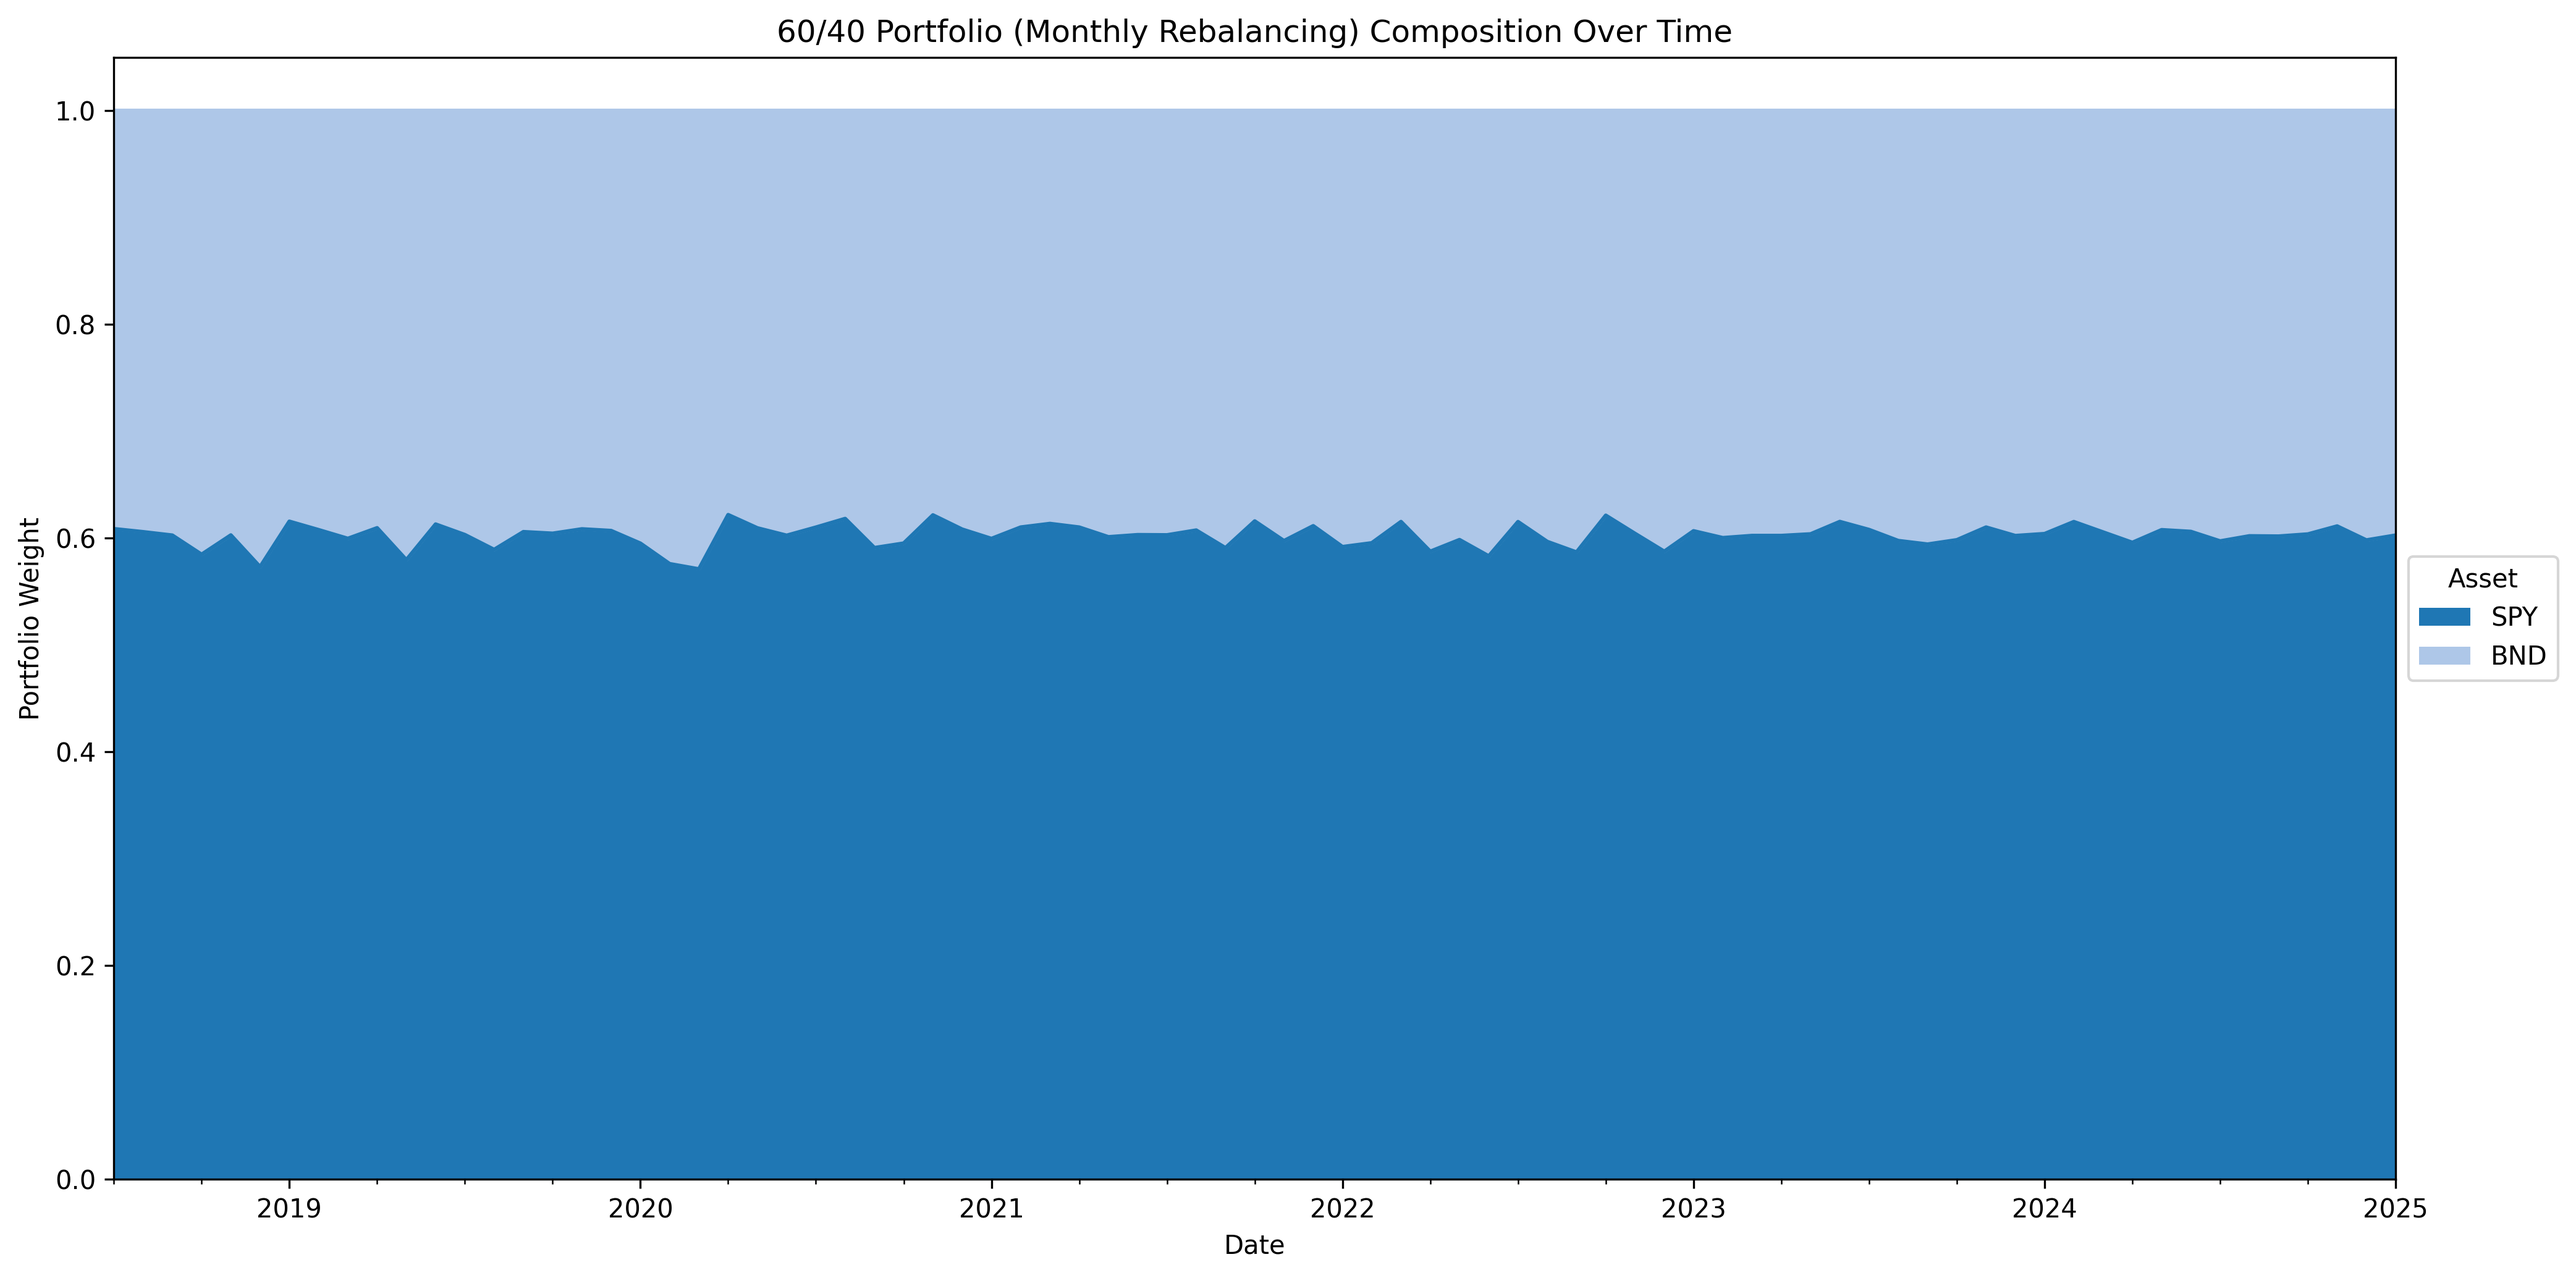
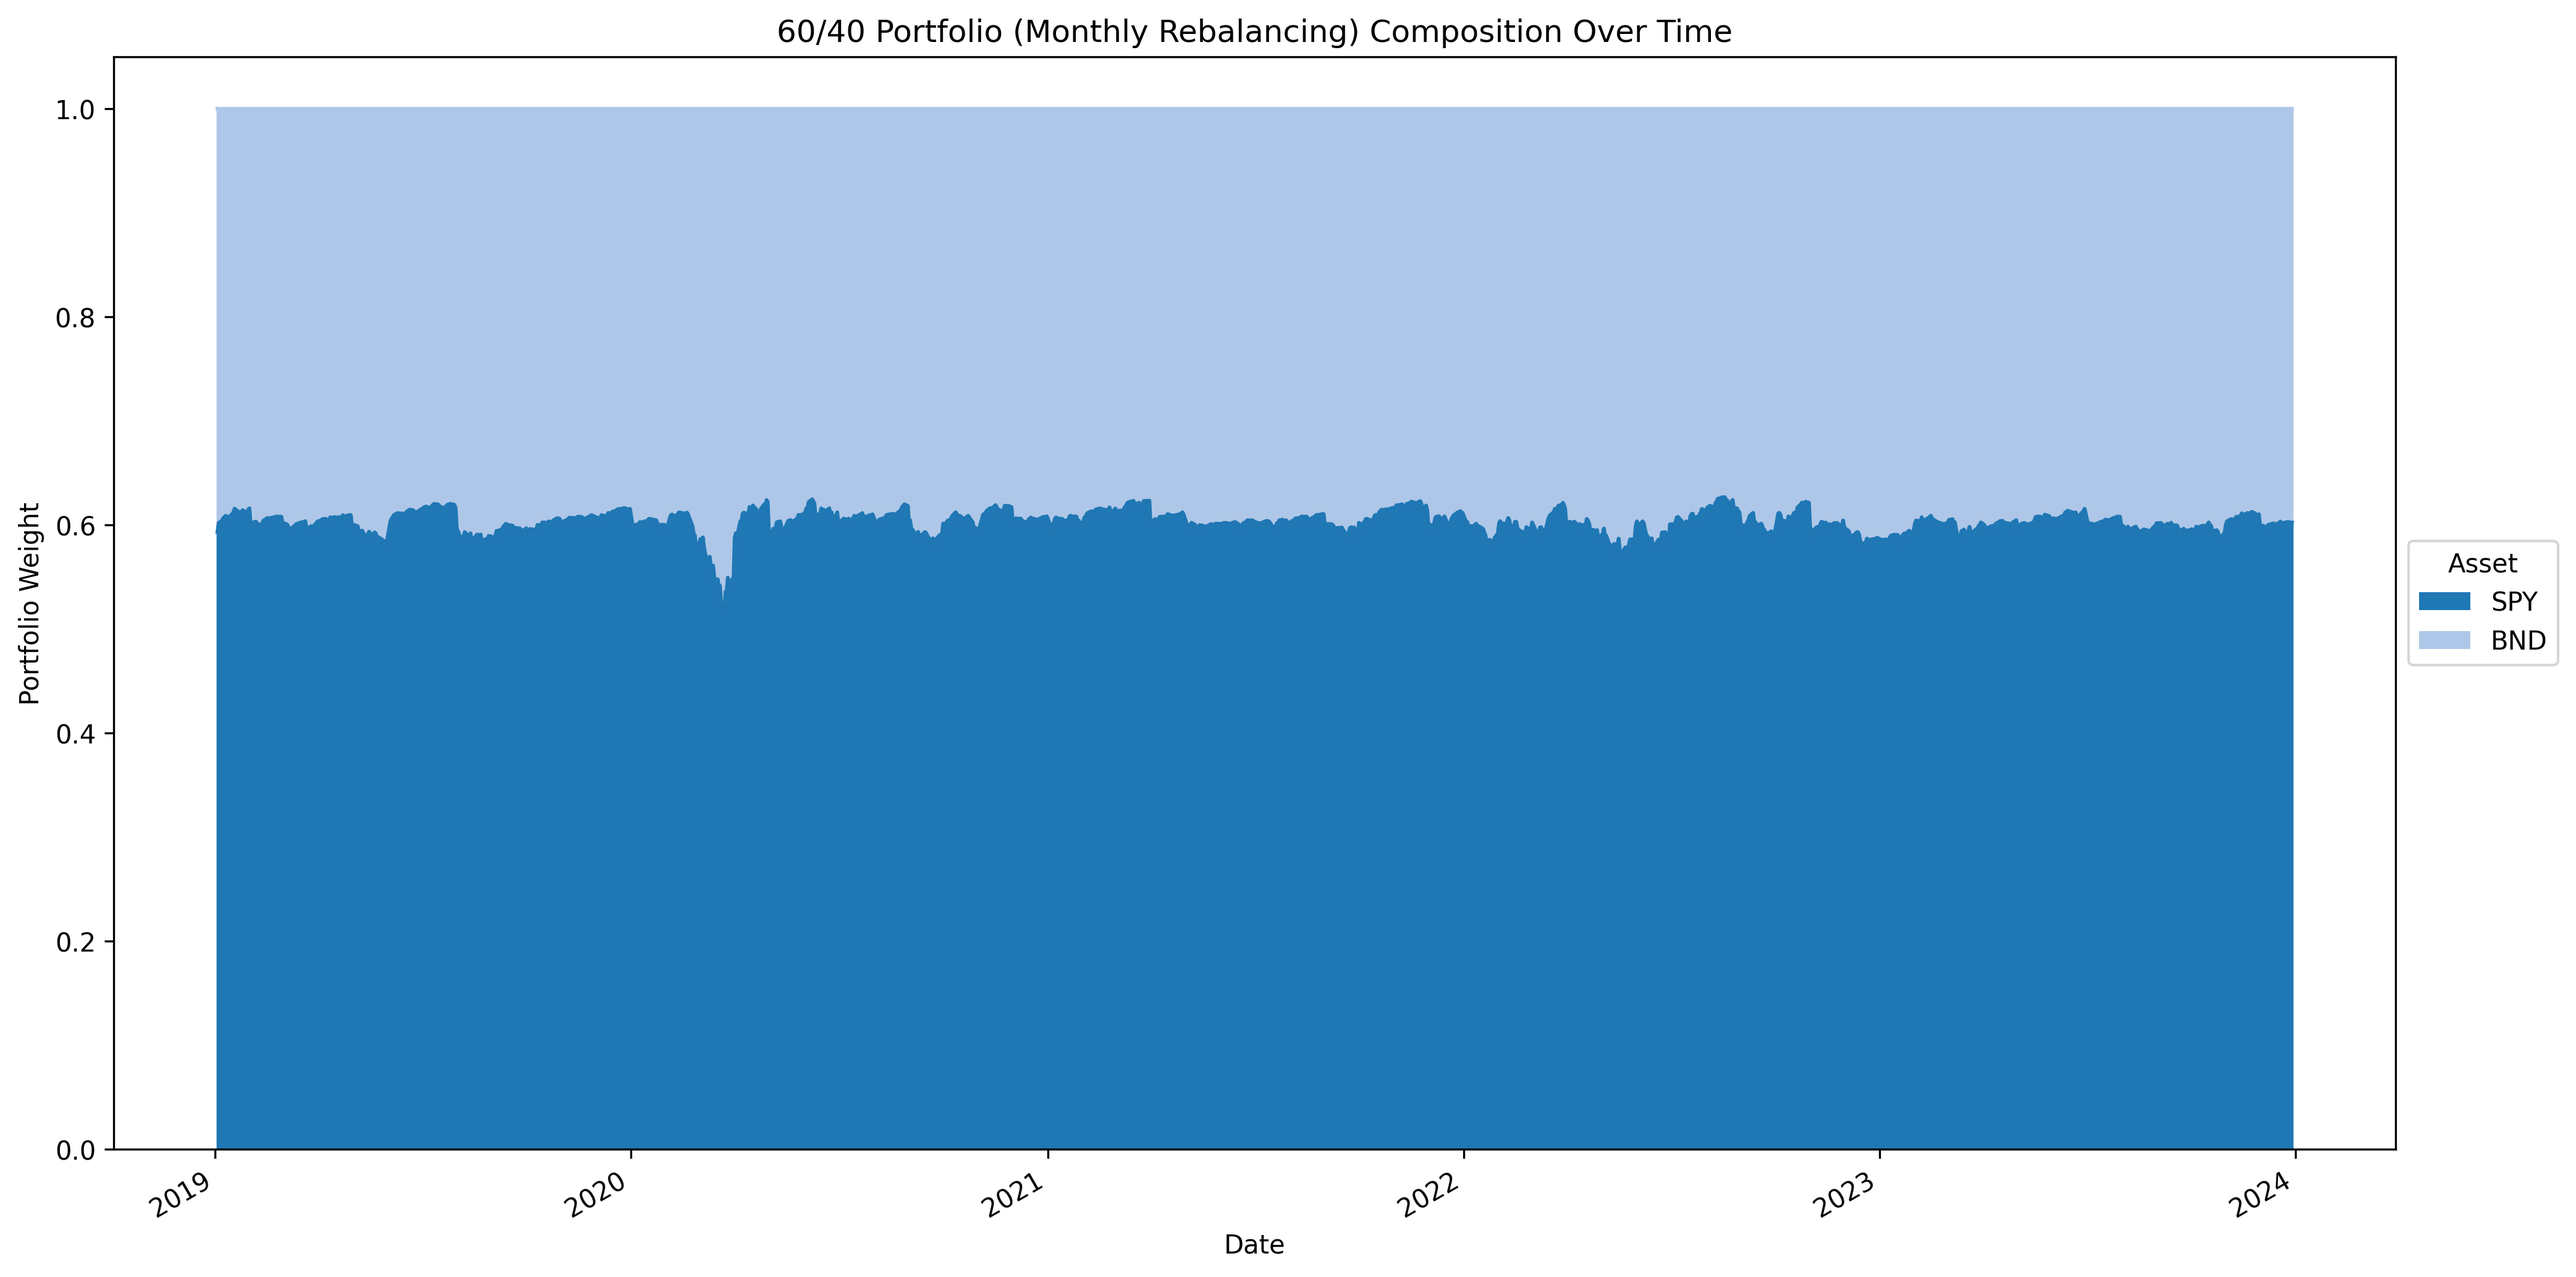
updating to handle negative weights in the composition graph

Changed region(s): [[0.0, 0.0619, 0.9978, 0.9594]]

diff --git a/src/optimization/custom_algorithm.py b/src/optimization/custom_algorithm.py
@@ -36,6 +36,7 @@ def load_returns(file_path: str) -> Optional[pd.DataFrame]:
     Optional[pd.DataFrame]
         Returns data with dates as index or None if an error occurs
     """
+    print(f"Loading returns data from {file_path}")
     try:
         returns = pd.read_csv(file_path, index_col=0, parse_dates=True)
         print(f"Successfully loaded returns data from {file_path}")
@@ -112,7 +113,7 @@ def prepare_optimization_inputs(
     return expected_returns, covariance_matrix
 
 
-def fast_algorithm_portfolio(
+def custom_algorithm_portfolio(
     returns: pd.Series,
     cov_matrix: pd.DataFrame,
     risk_free_rate: float = 0.0,
@@ -299,7 +300,7 @@ def generate_efficient_frontier(
         Efficient frontier points (return, volatility, sharpe)
     """
     # Find minimum variance portfolio
-    min_var_weights, min_var_info = fast_algorithm_portfolio(
+    min_var_weights, min_var_info = custom_algorithm_portfolio(
         returns, cov_matrix, risk_free_rate, target_return=None, long_only=long_only
     )
     min_return = min_var_info["return"]
@@ -316,7 +317,7 @@ def generate_efficient_frontier(
 
     for target_return in target_returns:
         try:
-            _, portfolio_info = fast_algorithm_portfolio(
+            _, portfolio_info = custom_algorithm_portfolio(
                 returns,
                 cov_matrix,
                 risk_free_rate,
@@ -680,7 +681,7 @@ def main(
     expected_returns, covariance_matrix = prepare_optimization_inputs(returns_data)
 
     # Run Fast Algorithm optimization
-    optimal_weights, portfolio_info = fast_algorithm_portfolio(
+    optimal_weights, portfolio_info = custom_algorithm_portfolio(
         expected_returns,
         covariance_matrix,
         risk_free_rate,
@@ -699,7 +700,7 @@ def main(
             performance_metrics,
         ) = analyze_portfolio_performance_with_rebalancing(
             returns_data,
-            fast_algorithm_portfolio,
+            custom_algorithm_portfolio,
             rebalance_frequency=rebalance_frequency,
             lookback_window=lookback_window,
             risk_free_rate=risk_free_rate,

diff --git a/src/analysis/benchmark_analysis.py b/src/analysis/benchmark_analysis.py
@@ -57,7 +57,13 @@ def plot_one_factor_fast_composition(output_dir: str):
 
     # Plot
     plt.figure(figsize=(14, 7))
-    weights_norm.plot.area(ax=plt.gca(), stacked=True, cmap="tab20")
+    if (weights_norm < 0).any().any():
+        print(
+            "Negative weights detected: plotting as line chart (not stacked area) due to short sales."
+        )
+        weights_norm.plot(ax=plt.gca(), cmap="tab20")
+    else:
+        weights_norm.plot.area(ax=plt.gca(), stacked=True, cmap="tab20")
     plt.title("One-Factor Fast Algorithm Portfolio Composition Over Time")
     plt.ylabel("Portfolio Weight")
     plt.xlabel("Date")
@@ -111,7 +117,13 @@ def plot_custom_algorithm_composition(output_dir: str, period: str = None):
 
     # Plot
     plt.figure(figsize=(14, 7))
-    weights_norm.plot.area(ax=plt.gca(), stacked=True, cmap="tab20")
+    if (weights_norm < 0).any().any():
+        print(
+            "Negative weights detected: plotting as line chart (not stacked area) due to short sales."
+        )
+        weights_norm.plot(ax=plt.gca(), cmap="tab20")
+    else:
+        weights_norm.plot.area(ax=plt.gca(), stacked=True, cmap="tab20")
     plt.title("Custom Algorithm Portfolio Composition Over Time")
     plt.ylabel("Portfolio Weight")
     plt.xlabel("Date")

diff --git a/run.py b/run.py
@@ -633,6 +633,12 @@ def run_all(args: argparse.Namespace) -> int:
     debug = getattr(args, "debug", False)
     benchmark_analysis.plot_histograms_of_annualized_returns(verbose=debug)
 
+    # Generate composition plots
+    print("\n=== Generating Portfolio Composition Plots ===\n")
+    benchmark_analysis.plot_balanced_monthly_composition()
+    benchmark_analysis.plot_custom_algorithm_composition(analysis_args.output)
+    benchmark_analysis.plot_one_factor_fast_composition(analysis_args.output)
+
     return 0
 
 
